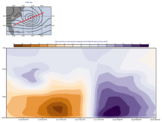
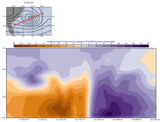
Write documentation for RTD - add gallery examples for cross section wind  MPY-272

diff --git a/docs/gallery/cross_section_wind_parallel.py b/docs/gallery/cross_section_wind_parallel.py
@@ -14,12 +14,28 @@ Cross Section Parallel Wind Component with Map
 
 import metview as mv
 
-# read pressure level data - superstorm Sandy
-filename = "sandy_pl.grib"
-if mv.exist(filename):
-    g = mv.read(filename)
+# get data - superstorm Sandy
+use_mars = False
+
+# get data from MARS
+if use_mars:
+    g = mv.retrieve(
+        type="fc",
+        levelist=[1000, 925, 850, 700, 500, 400, 300, 250, 200, 150, 100],
+        param=["r", "z", "u", "v"],
+        date=20121029,
+        time=0,
+        step=0,
+        area=[40, -84, 25, -60],
+        grid=[0.25, 0.25],
+    )
+# read data from GRIB file
 else:
-    g = mv.gallery.load_dataset(filename)
+    filename = "sandy_pl_025.grib"
+    if mv.exist(filename):
+        g = mv.read(filename)
+    else:
+        g = mv.gallery.load_dataset(filename)
 
 # read wind fields and z500
 f_uv = mv.read(data=g, param=["u", "v"])
@@ -48,15 +64,20 @@ wind_shade = mv.mcont(
     legend="on",
     contour="off",
     contour_level_selection_type="interval",
-    contour_shade_max_level=32,
-    contour_shade_min_level=-32,
+    contour_shade_max_level=36,
+    contour_shade_min_level=-36,
     contour_interval=4,
     contour_label="off",
     contour_shade="on",
     contour_shade_colour_method="palette",
     contour_shade_method="area_fill",
-    contour_shade_palette_name="m_brown_purple_16",
+    contour_shade_palette_name="colorbrewer_PuOr_18_r",
 )
+# cross section title
+xs_title = mv.mtext(text_font_size=0.4)
+
+# cross section legend
+xs_legend = mv.mlegend(legend_text_font_size=0.35)
 
 # ---------------------------------------------
 #  Map view with z500 and cross section line
@@ -79,14 +100,14 @@ coast = mv.mcoast(
 )
 
 # define map view
-map = mv.geoview(
+gview = mv.geoview(
     map_area_definition="corners",
     area=[25, -84, 40, -60],
     coastlines=coast,
     subpage_y_lenght=75,
 )
 
-# define contoring for z500
+# define contouring for z500
 cont_z = mv.mcont(
     contour_line_thickness=2,
     contour_line_colour="black",
@@ -97,7 +118,7 @@ cont_z = mv.mcont(
 )
 
 # plot title
-map_title = mv.mtext(text_lines="Z 500 hpa")
+map_title = mv.mtext(text_lines="Z 500 hpa", text_font_size=0.4)
 
 # cross section line visualiser
 vis_line = mv.input_visualiser(
@@ -112,7 +133,7 @@ graph_line = mv.mgraph(graph_line_colour="red", graph_line_thickness=4)
 #  Define layout
 # --------------------------------------------
 
-map_page = mv.plot_page(bottom=30, view=map)
+map_page = mv.plot_page(bottom=30, view=gview)
 
 xs_page = mv.plot_page(top=30, view=xs)
 
@@ -126,4 +147,16 @@ dw = mv.plot_superpage(pages=[map_page, xs_page])
 mv.setoutput(mv.pdf_output(output_name="cross_section_wind_parallel"))
 
 # generate plot
-mv.plot(dw[0], f_z, cont_z, vis_line, graph_line, map_title, dw[1], f_uv, wind_shade)
+mv.plot(
+    dw[0],
+    f_z,
+    cont_z,
+    vis_line,
+    graph_line,
+    map_title,
+    dw[1],
+    f_uv,
+    wind_shade,
+    xs_title,
+    xs_legend,
+)

diff --git a/docs/gallery/cross_section_wind_unprojected.py b/docs/gallery/cross_section_wind_unprojected.py
@@ -1,5 +1,5 @@
 """
-Cross Section Normal Wind Component with Map
+Cross Section Unprojected Wind and Relative Humidity with Map
 """
 
 # (C) Copyright 2017- ECMWF.
@@ -14,7 +14,7 @@ Cross Section Normal Wind Component with Map
 
 import metview as mv
 
-# get data - superstorm Sandy
+# get data
 use_mars = False
 
 # get data from MARS
@@ -37,8 +37,10 @@ else:
     else:
         g = mv.gallery.load_dataset(filename)
 
-# read wind fields and z500
+
+# read pressure level data - superstorm Sandy
 f_uv = mv.read(data=g, param=["u", "v"])
+f_r = mv.read(data=g, param="r")
 f_z = mv.read(data=g, param="z", levelist=500)
 
 # ---------------------------
@@ -48,31 +50,32 @@ f_z = mv.read(data=g, param="z", levelist=500)
 # define cross section line
 line = [30.30, -79.83, 36.95, -63.92]
 
-# define cross section view wind projected to the normal vector of the
-# cross section plane
+# define cross section view with wind along the cross section plane
 xs = mv.mxsectview(
     bottom_level=1000,
     top_level=100,
     line=line,
     wind_parallel="off",
-    wind_perpendicular="on",
-    wind_intensity="off",
+    wind_perpendicular="off",
+    wind_intenisty="off",
+    wind_unprojected="on",
     vertical_scaling="log",
 )
 
-# define contour shading for normal wind component
-wind_shade = mv.mcont(
+# define relative humidity contour shading
+r_shade = mv.mcont(
+    contour_automatic_setting="style_name",
+    contour_style_name="sh_grnblu_f65t100i15_light",
     legend="on",
-    contour="off",
-    contour_level_selection_type="interval",
-    contour_shade_max_level=36,
-    contour_shade_min_level=-36,
-    contour_interval=4,
-    contour_label="off",
-    contour_shade="on",
-    contour_shade_colour_method="palette",
-    contour_shade_method="area_fill",
-    contour_shade_palette_name="colorbrewer_PuOr_18_r",
+)
+
+# define wind plotting style
+wind_style = mv.mwind(
+    wind_field_type="flags",
+    wind_thinning_factor=1,
+    wind_flag_colour="black",
+    wind_flag_origin_marker="off",
+    wind_flag_length=0.7,
 )
 
 # cross section title
@@ -146,7 +149,7 @@ dw = mv.plot_superpage(pages=[map_page, xs_page])
 # --------------------------------------------
 
 # define the output plot file
-mv.setoutput(mv.pdf_output(output_name="cross_section_wind_normal"))
+mv.setoutput(mv.pdf_output(output_name="cross_section_wind_unprojected"))
 
 # generate plot
 mv.plot(
@@ -157,8 +160,10 @@ mv.plot(
     graph_line,
     map_title,
     dw[1],
+    f_r,
+    r_shade,
     f_uv,
-    wind_shade,
+    wind_style,
     xs_title,
     xs_legend,
 )
